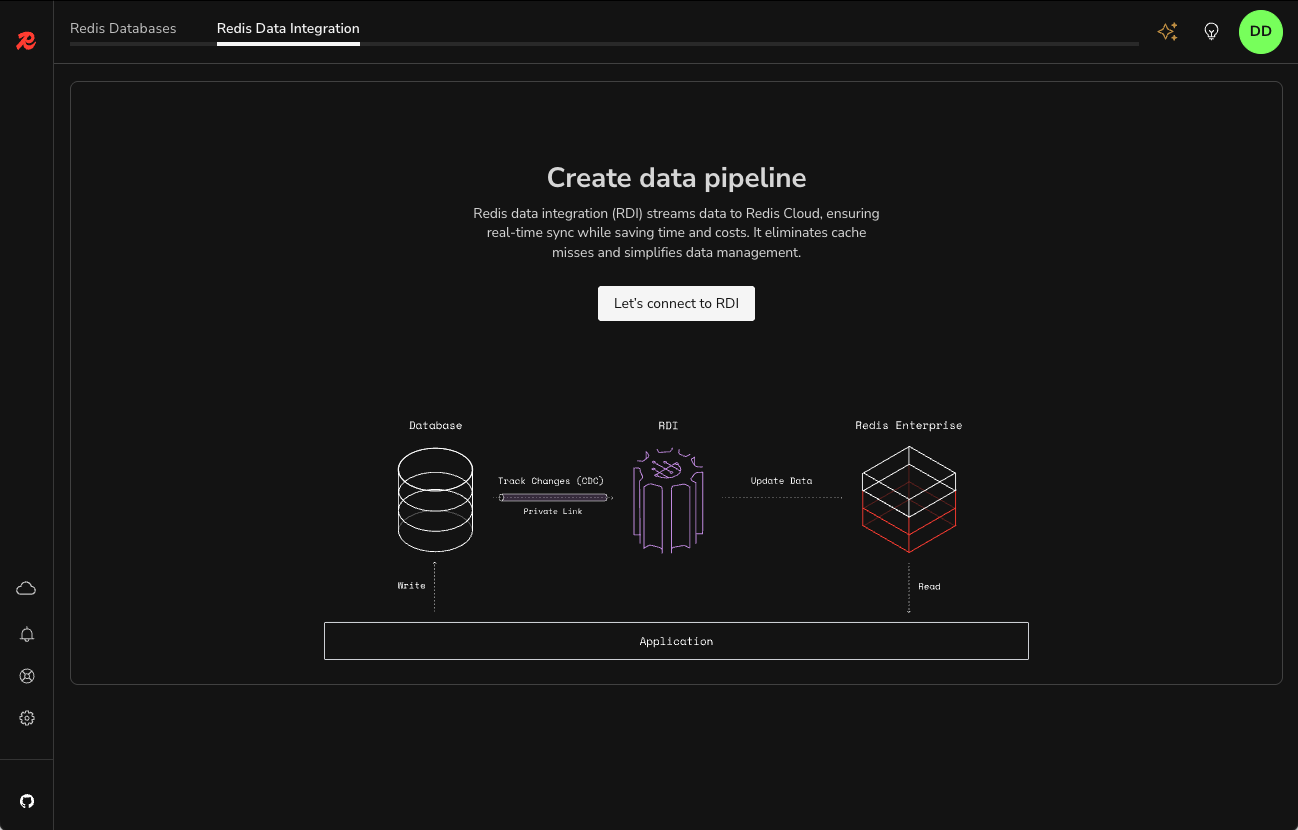
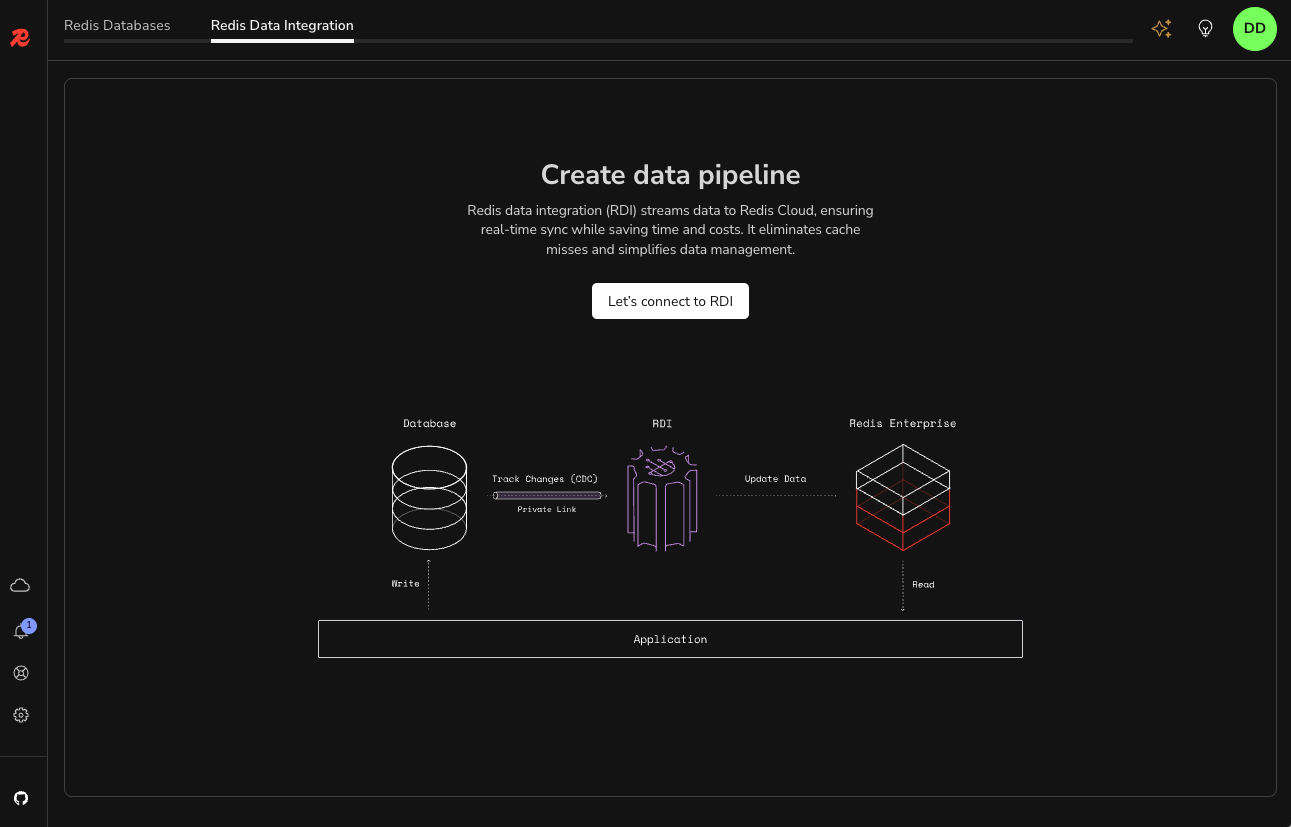
DEV: update RDI-related screenshots for new 3.0.x version of RI (#2815)
* DEV: update RDI-related screenshots for new 3.x version of RI

* Update image file

* Fix image placement

diff --git a/content/develop/tools/insight/rdi-connector.md b/content/develop/tools/insight/rdi-connector.md
@@ -22,10 +22,6 @@ You can read more about RDI's ingest architecture [on these pages]({{< relref "/
 
 As of version `2.54.0`, Redis Insight includes RDI connectivity, which allows you to connect to [RDI management planes]({{< relref "/integrate/redis-data-integration/architecture" >}}#how-rdi-is-deployed), create, test, and deploy [RDI pipelines]({{< relref "/integrate/redis-data-integration/data-pipelines" >}}), and view RDI statistics.
 
-{{< note >}}
-Most of the screenshots on this page were taken using a previous version of Redis Insight. The functionality is the same in the current version, but the user interface has changed.
-{{< /note >}}
-
 ## Connect
 
 Open Redis Insight and then click on the **Redis Data Integration** tab, which looks like this:
@@ -34,159 +30,118 @@ Open Redis Insight and then click on the **Redis Data Integration** tab, which l
 
 Next, click on **Let's connect to RDI**, which will open the **Add RDI Endpoint** dialog.
 
-{{< image filename="images/ri/ri-rdi-add-ep.png" alt="Connect to RDI" >}}
+{{< image filename="images/ri/ri-rdi-add-ep-2.png" alt="Connect to RDI" >}}
 
-Enter your RDI server details into the dialog. The **RDI Alias** field can be any name you choose and it will be used as the primary name in the **RDI Instances** list view. You'll receive notification if your connection is successful.
+Enter your RDI server details into the dialog and then click **Add Endpoint**. The **RDI Alias** field can be any name you choose and it will be used as the primary name in the **RDI Instances** list view. The **URL** field string needs to begin with "https://", followed by the IP address or hostname of your RDI server. You'll receive notification if your connection is successful.
 
-{{< image filename="images/ri/ri-rdi-endpoint-added.png" alt="RDI endpoint added" >}}
+{{< image filename="images/ri/ri-rdi-add-ep-3.png" alt="RDI endpoint added" >}}
 
 ## Create, test, and deploy RDI pipelines
 
-Begin by clicking the alias of your newly configured RDI endpoint in the **RDI Instances** view (for example, **Test connection** in the above image). You'll see the following dialog in the center of the screen.
+Begin by clicking the alias of your newly configured RDI endpoint in the **RDI Instances** view (for example, **Test connection** in the above image), which will reveal the **Pipeline Management** view:
 
-{{< image filename="images/ri/ri-rdi-pl-start.png" alt="Start with your pipeline" >}}
+{{< image filename="images/ri/ri-rdi-pl-main.png" alt="Start with your pipeline" >}}
 
-Choose from the following options:
+The vertical ellipses ("kebab") menu, which is adjacent to the **Deploy** button, contains the following options:
 
-- **Download from server** - Download an existing pipeline from your RDI configuration.
-- **Upload from file** - Upload YAML pipeline files from your local computer in zip format.
-- **Create new pipeline** - Use Redis Insight's built-in editors to create a new pipeline either from scratch or using one of the built-in templates.
+- **Download deployed pipeline** - Download an existing pipeline from your RDI configuration.
+- **Import pipeline from ZIP file** - Upload YAML pipeline files from your local computer in ZIP format.
+- **Save pipeline to ZIP file** - Save YAML pipeline files to your local computer in ZIP format.
 
-Each of these menu options will be described in more detail in subsequent sections.
+{{< image filename="images/ri/ri-rdi-pl-ellipses-menu.png" alt="Vertical ellipses (kebab) menu" >}}
 
-There are also equivalent buttons at the top of the editor pane for the first two of these functions.
+Redis Insight will automatically download the RDI pipeline content from your server when the connection is opened for the first time.
 
-{{< image filename="images/ri/ri-rdi-pl-editor-minibuttons.png" alt="Editor minibuttons" >}}
+### Download a deployed pipeline from your RDI configuration
 
-If you'd rather start with an empty configuration, exit the dialog, which will leave you in the **Configuration file** editor where you can begin editing the configuration component of your pipeline; the `config.yaml` file.
+Select the **Download deployed pipeline** option from the kebab menu to download a previously defined pipeline from your RDI configuration. The downloaded pipeline will be displayed in the **Pipeline management** pane. As shown below, each pipeline consists of a configuration file (`config.yaml`) and zero or more `job` YAML files; both shown in the leftmost panel. The configuration file will be displayed in the rightmost editor panel.
 
-### Download a pipeline from your RDI configuration
+{{< image filename="images/ri/ri-rdi-pl-main.png" alt="Start with your pipeline" >}}
 
-Click the **Download from server** button in the **Start with your pipeline** dialog to download a previously defined pipeline from your RDI configuration. The downloaded pipeline will be displayed in the **Pipeline management** pane. As shown below, each pipeline consists of a configuration file (`config.yaml`) and zero or more `job` YAML files. The configuration file will be displayed in the center editor panel.
+### Import a pipeline from your local machine
 
-{{< image filename="images/ri/ri-rdi-pl-dl.png" alt="Download a pipeline" >}}
-
-### Upload a pipeline from your local machine
-
-Click the **Upload from file** button in the **Start with your pipeline** dialog to upload your configuration and job YAML files from your local machine. The files must be stored in a zip file that has the following structure.
+Select the **Import pipeline from ZIP file** option from the kebab menu to upload your configuration and job YAML files from your local computer. The files must be stored in a ZIP file that has the following structure.
 
 ```
+.
 ├── config.yaml
 └── jobs
-    └── job1.yaml
+    └── bbb.yaml
 ```
 
-The `config.yaml` file, your configuration YAML file, is required. The `jobs` directory can be empty, as job pipelines are not required, but the empty directory must exist in the zip file. Otherwise, the `jobs` folder might contain one or more job YAML files.
+The `config.yaml` file, your configuration YAML file, is required. The `jobs` directory can be empty, as job pipelines are not required, but the empty directory must exist in the ZIP file. Otherwise, the `jobs` folder might contain one or more job YAML files.
 
 ### Create a new configuration file using the built-in editor
 
-Click the **Create new pipeline** button in the **Start with your pipeline** dialog to create a new pipeline using the built-in editors. After doing so, you'll enter the **Configuration file** editor and you'll see an open **Select a template** dialog in the upper right-hand corner of the editor.
+If you wish to create a new pipeline from scratch, first delete any existing YAML code from the editor panel. If you're familiar with the structure of a configuration file, you can begin editing. If you're not familiar, you can insert a database template using the **Insert template** button menu, which has the following options:
 
-{{< image filename="images/ri/ri-rdi-pl-editor-dlg.png" alt="Select a template" >}}
+{{< image filename="images/ri/ri-rdi-pl-template-menu.png" alt="Insert template menu" >}}
 
-Make your selections in the provided fields:
+After you make your selections and click **Apply**, Redis Insight will populate the editor window with an appropriate template.
 
-- **Pipeline type** is set to **Ingest** by default.
-- **Database type** has six options:
-  - mongodb
-  - cassandra
-  - mysql
-  - oracle
-  - postgresql
-  - sqlserver
-
-{{< note >}}
-The options listed in the above menus depend on the capabilities of your RDI configuration.
-{{< /note >}}
-
-After you make your selections and click **Apply**, Redis Insight will populate the editor window with an appropriate template. To start from scratch, click **Cancel**.
+The **Insert template** menu is only available when the editor panel is empty.
 
 See the [RDI documentation]({{< relref "/integrate/redis-data-integration/reference/config-yaml-reference" >}}) for information about required fields.
 
-{{< image filename="images/ri/ri-rdi-pl-editor-template.png" alt="Editor template" >}}
-
 ### Test your target database connection
 
-After you've created your **Target database configuration**, you can test the connection using the **Test Connection** button in the bottom right of the editor pane. A new panel will open to the right containing the test results as shown below.
+After you've created your **Target database configuration**, you can test the connection using the **Test Connection** button in the bottom right of the editor pane. A new panel will open to the right containing the test results.
 
-{{< image filename="images/ri/ri-rdi-pl-test-cxn.png" alt="Test connection" >}}
+{{< image filename="images/ri/ri-rdi-pl-test-cnx.png" alt="Test connection" >}}
 
 ### Create a new transformation job file using the built-in editor
 
-In the **Pipeline Management** pane, click the `+` next to the **Jobs** folder and enter a name for the new transformation job.
-Next, click the job name you just created.
-This will take you to the job editor with the template selection menu open. Make your selection and click **Apply**. Redis Insight will populate the editor window with an appropriate template. To start from scratch, click **Cancel**.
+In the **Pipeline Management** pane, click the `+` next to the **Transform and Validate** folder label and enter a name for the new transformation job.
 
-{{< note >}}
-The options listed in the above menu depend on the capabilities of your RDI configuration.
-{{< /note >}}
+{{< image filename="images/ri/ri-rdi-pl-add-job.png" alt="New job" >}}
+
+Next, click the job name you just created. You can either begin manually editing your transformation job or you can select **Insert template**, which will populate a sample, non-functional job template in the editor.
 
 The [RDI documentation]({{< relref "/integrate/redis-data-integration/data-pipelines/transform-examples" >}}) has several examples of transformation jobs that can help get you started. Note: RDI uses a very specific YAML format for job files. See [here]({{< relref "/integrate/redis-data-integration/data-pipelines" >}}#job-files) for more information.
-
-{{< image filename="images/ri/ri-rdi-job-editor-template.png" alt="Job editor template" >}}
 
 ## Use the built-in editors
 
 The Redis Insight pipeline file editors are context-aware. They provide auto-completion, syntax highlighting, and error detection for:
 
 - YAML files in the configuration and job file editors
-- JMESPath and SQL function snippets in a dedicated editor. To open the JMESPath and SQL editor, click the **SQL and JMESPathEditor** button as shown above. A new editor window will open in the lower half of the screen.
+- JMESPath and SQL function snippets in a dedicated editor. To open the JMESPath and SQL editor, click the **SQL and JMESPathEditor** button as shown below. A new editor panel will open in the lower half of the screen. At the bottom-left of that panel, you select either **SQLite functions** or **JMESPath**.
 
-If you decided to write your own configuration pipeline without using a template, you would see auto-completion prompts such as the one shown below.
+{{< image filename="images/ri/ri-rdi-pl-addl-editors.png" alt="SQL and JMESPath editors" >}}
 
-{{< image filename="images/ri/ri-rdi-pl-editor-autoc.png" alt="Editor autocompletion" >}}
-
-While this isn't a replacement for the RDI documentation, it can help speed you along after you have basic familiarity with the building blocks of RDI pipeline files.
-
-Redis Insight will also highlight any errors as shown below.
-
-{{< image filename="images/ri/ri-rdi-pl-editor-errs.png" alt="Editor errors" >}}
-
-Here's an example showing the SQL and JMESPath editor pane. Note the toggle in the bottom left corner of this editor pane. Clicking it allows you to select from:
-
-- SQLite functions
-- JMESPath
-
-After constructing your SQLite or JMESPath code, copy it to the main editor window. Here's a [reference]({{< relref "/integrate/redis-data-integration/reference/jmespath-custom-functions" >}}) to the supported JMESPath extension functions and expressions that you can use in your job files.
-
-{{< image filename="images/ri/ri-rdi-pl-editor-sql-minie.png" alt="Editor SQL minieditor" >}}
+Here's a [reference]({{< relref "/integrate/redis-data-integration/reference/jmespath-custom-functions" >}}) to the supported JMESPath extension functions and expressions that you can use in your job files.
 
 {{< warning >}}
-Any changes you make in the editors will be lost if you exit Redis Insight without saving your work. To save any changes you made to your pipeline files, deploy them to your RDI server (see below) or download the modified files as a zip file to your local disk using the **Download** button in the top right of the RDI window. Redis Insight will prepend a green circle on unsaved/undeployed files.
+Any changes you make in the editors will be lost if you exit Redis Insight without saving your work. To save any changes you made to your pipeline files, deploy them to your RDI server (see below) or download the modified files as a ZIP file to your local computer. Redis Insight will prepend a green circle on unsaved/undeployed files. Redis Insight will also show errors (if present) using an exclamation point icon.
+{{< /warning >}}
 
 {{< image filename="images/ri/ri-rdi-pl-unsaved.png" alt="Unsaved pipeline" >}}
-{{< /warning >}}
 
 ## Dry run transformation job pipelines
 
-After you've created a transformation job pipeline, you can execute a dry run on the RDI server. To do that, click on **Dry Run** in the lower right side of the editor pane. A new **Test transformation logic** panel will open to the side. There are two vertically-stacked panes: **Input** and **Results**. In the **Input** section, enter JSON data that will trigger the transformation. Any results will be displayed in the **Results** section.
+After you've created a transformation job pipeline, you can execute a dry run on the RDI server. To do that, click on **Dry Run** in the lower right side of the editor panel. A new **Test transformation logic** panel will open to the side. There are two vertically-stacked panes: **Input** and a lower panel that has two tabs: **Transformation output** and **Job output**. In the **Input** section, enter JSON data that will trigger the transformation and then click **Dry run**. Any results will be displayed in the lower section.
 
-There are two tabs in the **Results** section:
+{{< image filename="images/ri/ri-rdi-pl-dry-run.png" alt="Dry run" >}}
 
-1. **Transformations** - this is where you'll see JSON output from your dry run.
-1. **Output** - (not shown) this is where you'll see the Redis commands that would have been run in a real scenario.
+There are two tabs in the lower section:
 
-Here's an example.
-
-{{< image filename="images/ri/ri-rdi-pl-dryrun.png" alt="Dry run" >}}
+1. **Transformation output** - this is where you'll see JSON output from your dry run.
+1. **Job output** - this is where you'll see the Redis commands that would have been run in a real scenario.
 
 ## Deploy pipelines and add target DB to Redis Insight
 
-If you're satisfied with your configuration and transformation job pipelines, you can deploy them to the RDI management plane. Click the **Deploy Pipeline** button to proceed.
+If you're satisfied with your configuration and transformation job pipelines, you can deploy them to the RDI management plane. Click the **Deploy** button to proceed.
+
+{{< image filename="images/ri/ri-rdi-deploy.png" alt="Deploy" >}}
 
 After your pipelines have been deployed, you can add the RDI target Redis database defined in your `config.yaml` file to Redis Insight.
 Doing so will allow you to monitor key creation from your RDI pipeline over time.
 
-## View RDI statistics
+## View RDI analytics
 
-You can view various statistics for your RDI deployment. To do so, click  the **Pipeline Status** menu button in the left side menu panel.
+You can view various analytics (statistics) for your RDI deployment. To do so, click  the **Analytics** tab button.
 
-{{< image filename="images/ri/ri-rdi-stats-view.png" alt="RDI statistics" >}}
+{{< image filename="images/ri/ri-rdi-analytics-view.png" alt="RDI analytics (statistics)" >}}
 
-Each statistics section is either static or refreshed automatically at a particular interval that you set.
-The first section, **Processing performance information** is set by default to refresh every 5 seconds.
-The other sections are static and need to be refreshed manually by pressing the refresh button at the top right of each section.
-You can also set up automatic refresh for the other sections.
+Analytics results are refreshed in an interval of your choosing. You can set the refresh interval by clicking on the arrow to the right of the **Auto refresh** control. You can either set the **Refresh rate** in seconds by clicking on the pencil control, or disable refresh altogether using the **Auto Refresh** slider control.
 
-To set up automatic refresh for one or more statistics sections, click on the downward arrow at the end of the **Last refresh** line.
-Then enable the **Auto Refresh** setting and set your desired refresh interval in seconds. This is shown in the previous image.
+{{< image filename="images/ri/ri-rdi-refresh.png" alt="RDI analytics refresh" >}}
